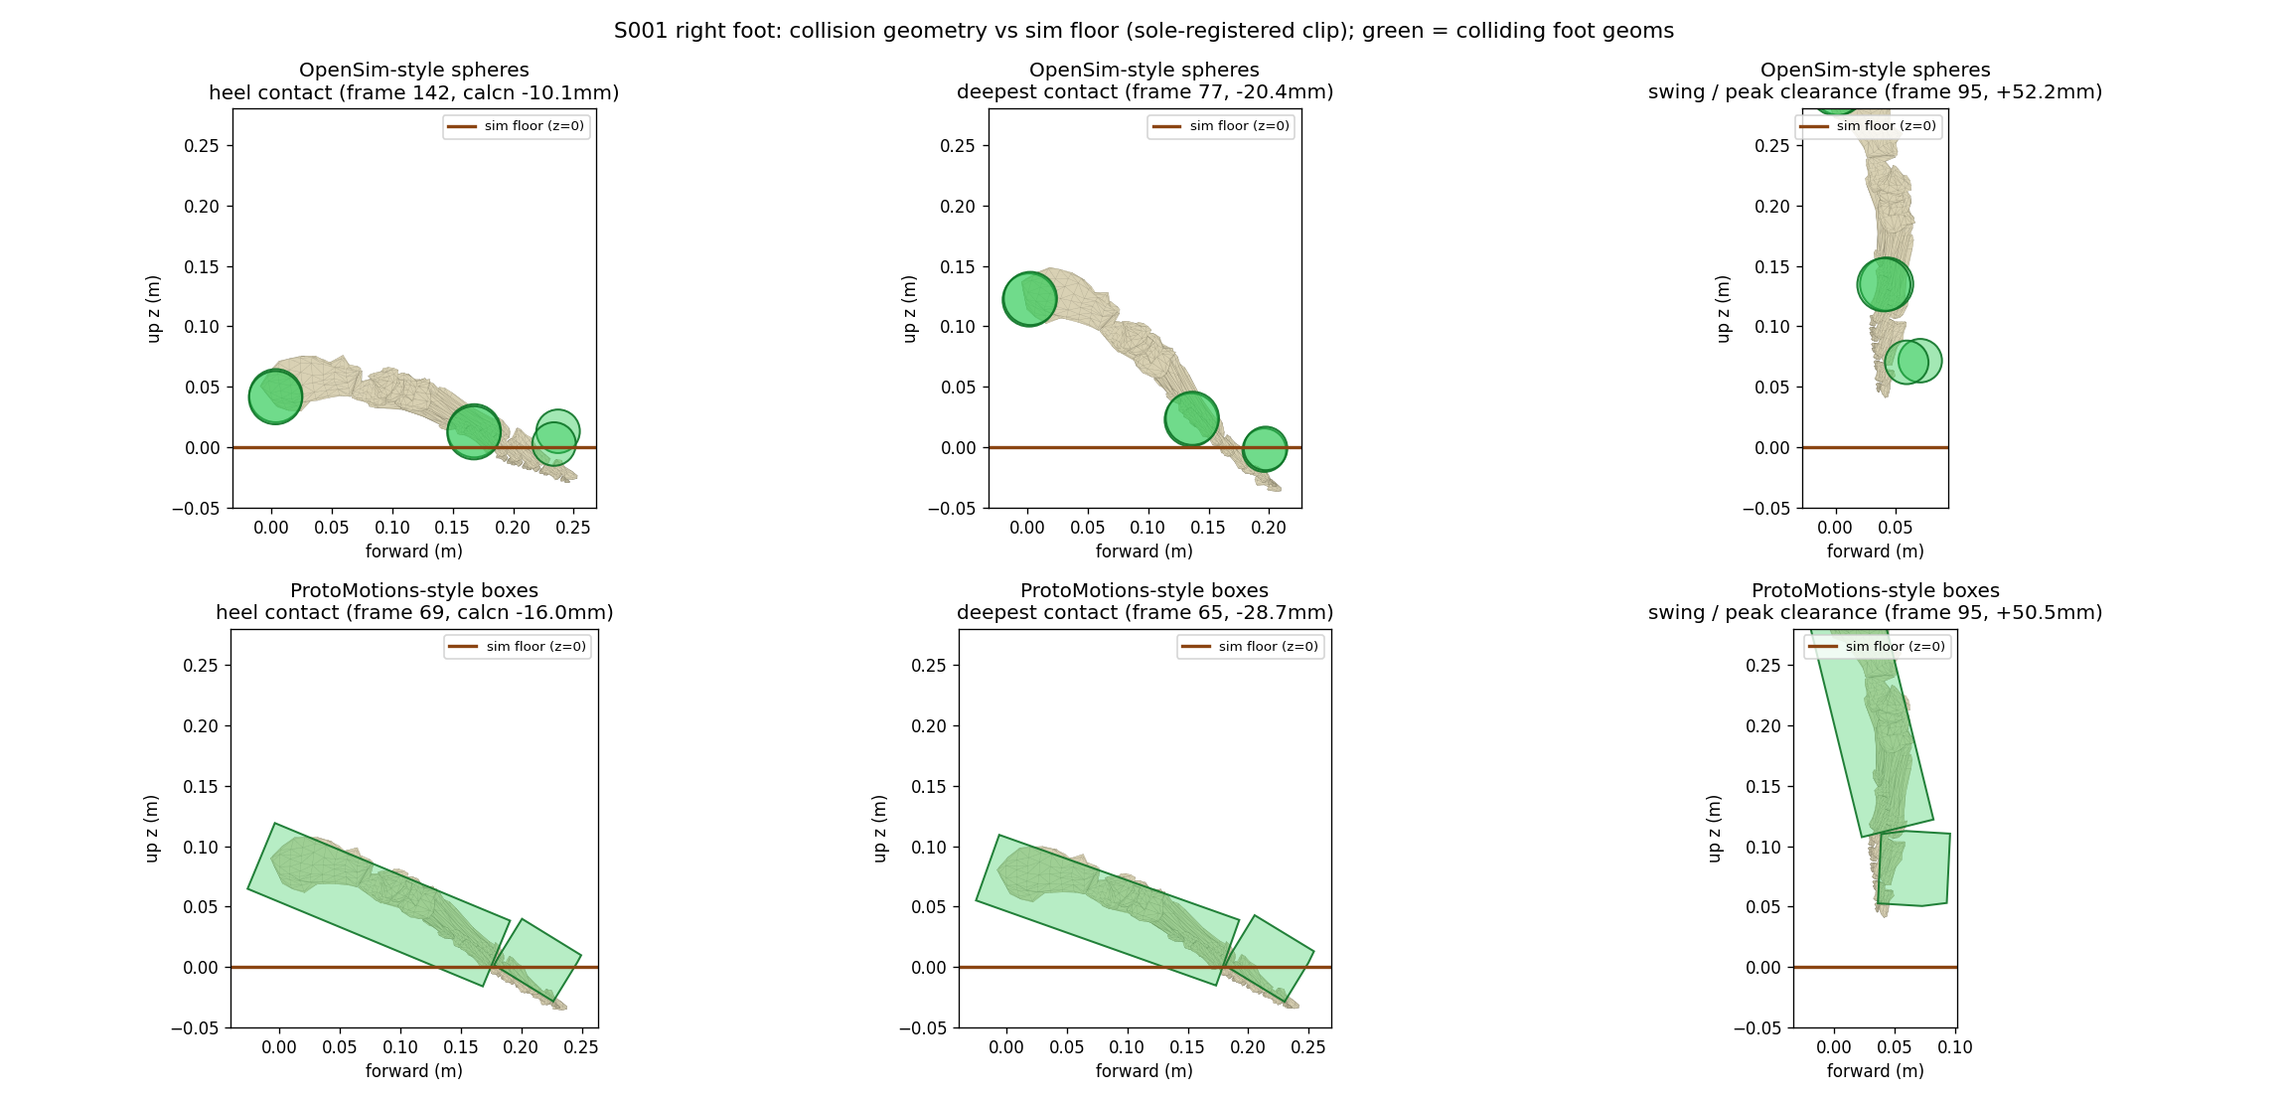
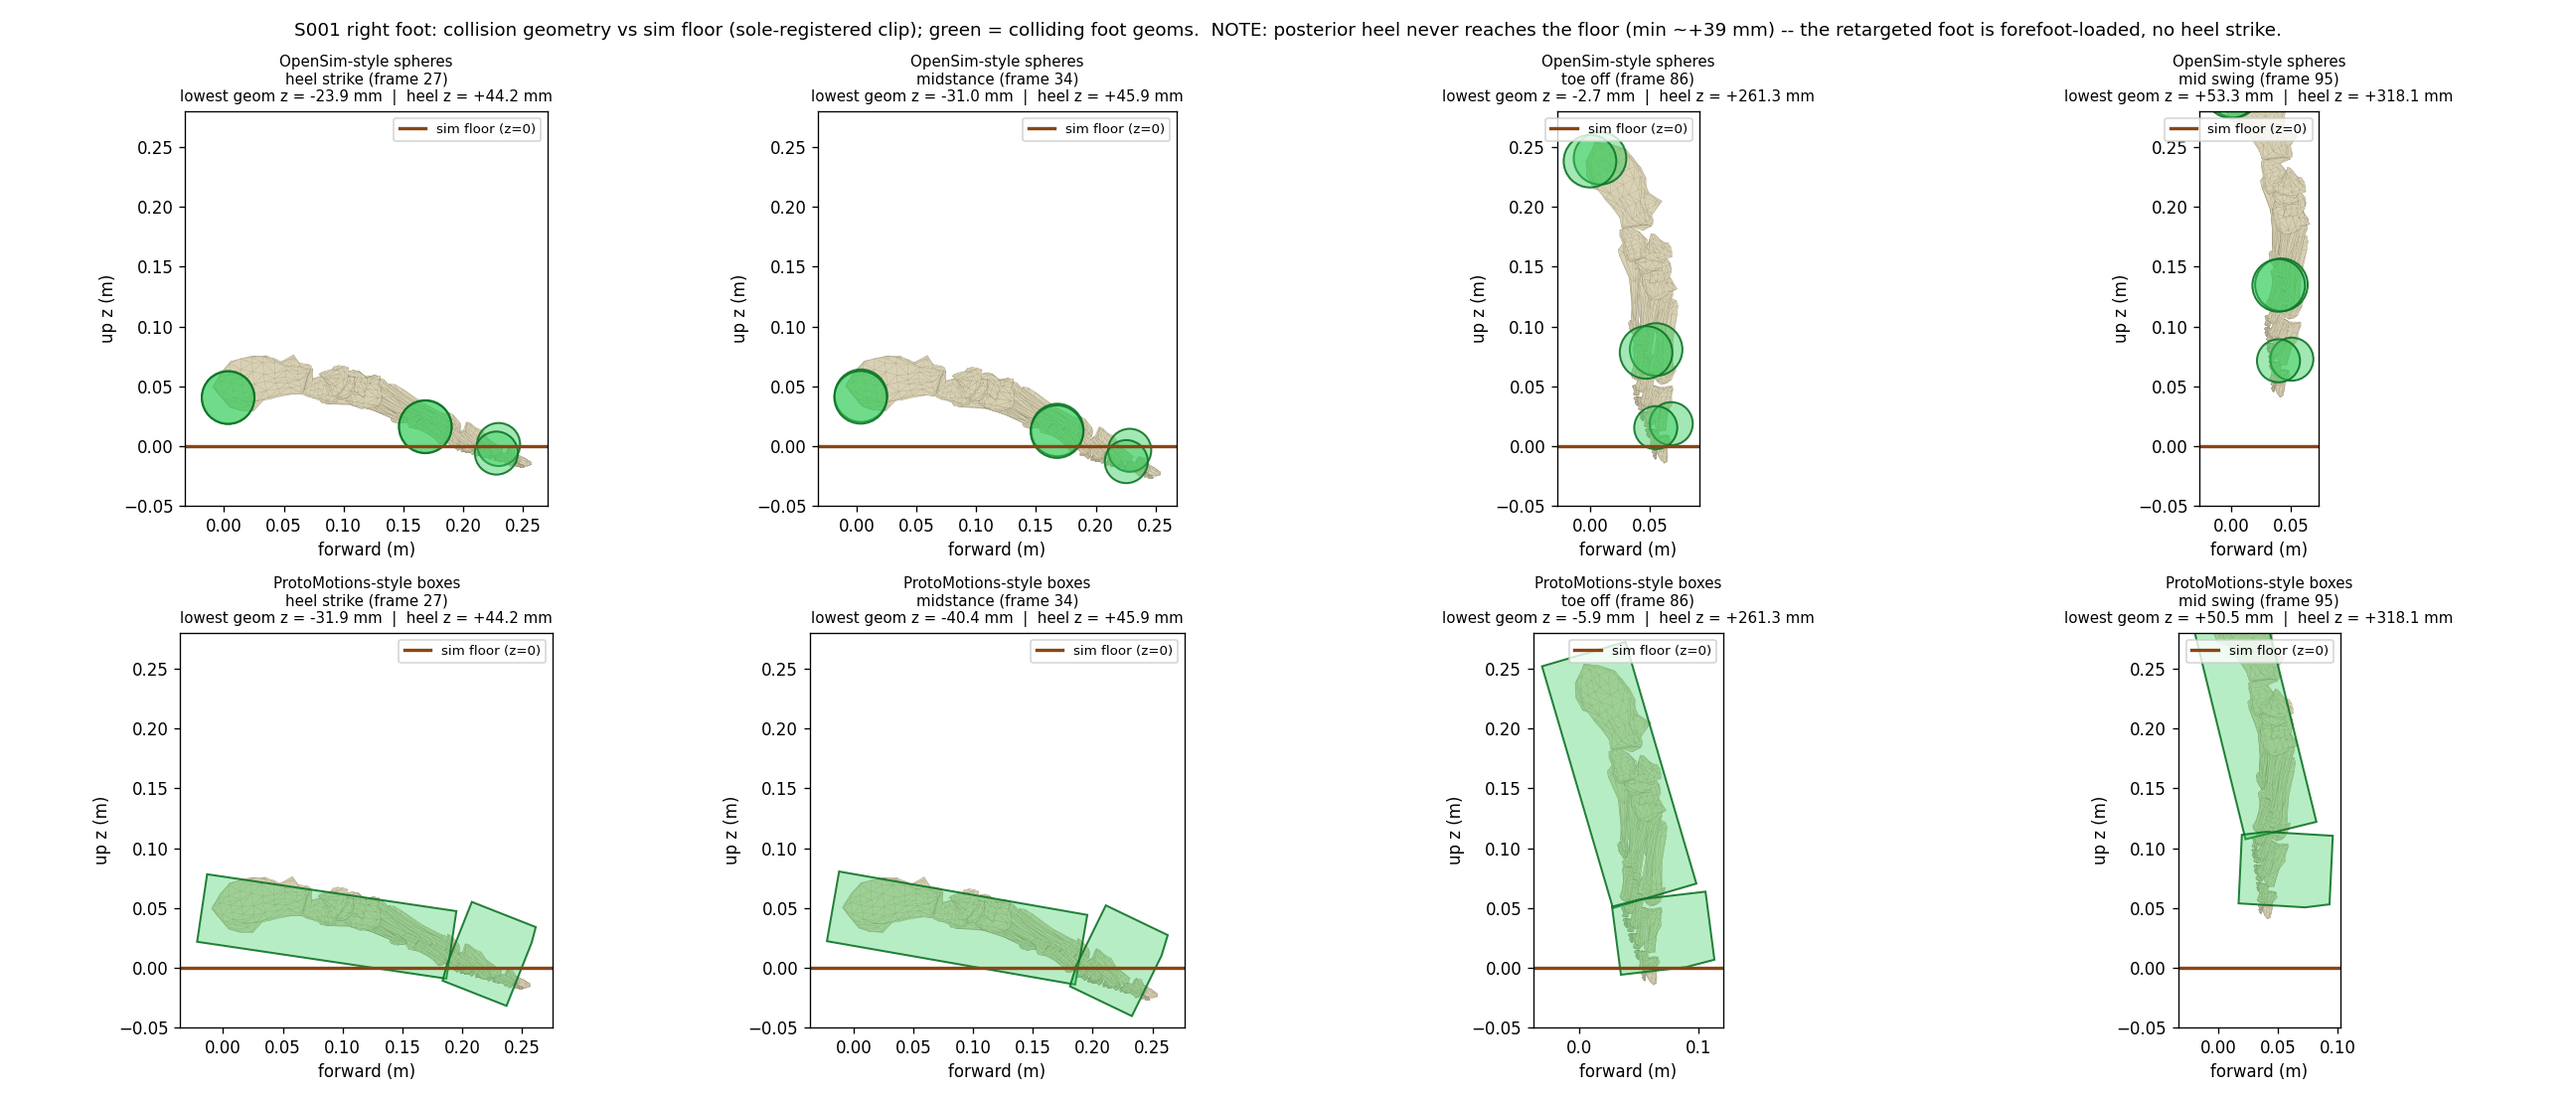
Render foot collision at four gait events

diff --git a/projects/biomech/tools/render_foot_collision.py b/projects/biomech/tools/render_foot_collision.py
@@ -98,12 +98,12 @@ def main() -> int:
     schemes = {k: [g for g in v if g.body in _R_BODIES] for k, v in schemes.items()}
 
     from biomech.contact.elastic_foundation import _quat_rotate_np
+    from biomech.export.foot_collision import _sole_points, _toes_from_calcn
 
     def lowest_collision_z(geoms, fr, bodies=None):
         """World-z of the deepest point of any collision geom at frame ``fr``.
 
-        If ``bodies`` is given, only geoms on those bodies are considered (e.g. just the
-        calcaneus to find heel contact).
+        If ``bodies`` is given, only geoms on those bodies are considered.
         """
         zmin = np.inf
         for g in geoms:
@@ -126,26 +126,64 @@ def main() -> int:
 
     nframes = traj["calcn_r"][0].shape[0]
 
-    nrows, ncols = len(schemes), 3
-    fig, axes = plt.subplots(nrows, ncols, figsize=(6.4 * ncols, 4.6 * nrows),
+    # --- scheme-independent gait-event detection from the plantar sole kinematics ---
+    # Split the subject sole at the MTP into rear (calcn frame) and toe (toes frame), and
+    # track, per frame, the world-z of a posterior-heel point, a distal-toe point, and the
+    # whole sole. The events are properties of the *motion*, so both collision schemes are
+    # rendered at the same frames (directly comparable).
+    sole = _sole_points(spec, scales, static, "R")
+    M = _toes_from_calcn(spec, scales, "toes_r")
+    R, t = M[:3, :3], M[:3, 3]
+    fore = sole[:, 0] >= float(t[0])
+    rear = sole[~fore]
+    toe = (sole[fore] - t) @ R
+    heel_pt = rear[int(np.argmin(rear[:, 0]))][None, :]          # posterior-most (calcn)
+    toe_pt = toe[int(np.argmax(toe[:, 0]))][None, :]             # distal-most (toes)
+
+    def _wz(body, pts_body, fr):
+        pos, quat = traj[body][0][fr], traj[body][1][fr]
+        q = np.broadcast_to(quat[None, :], (pts_body.shape[0], 4))
+        return pos[2] + _quat_rotate_np(q, pts_body)[:, 2]
+
+    heel_z = np.array([_wz("calcn_r", heel_pt, f)[0] for f in range(nframes)])
+    toe_z = np.array([_wz("toes_r", toe_pt, f)[0] for f in range(nframes)])
+    sole_z = np.array([min(_wz("calcn_r", rear, f).min(), _wz("toes_r", toe, f).min())
+                       for f in range(nframes)])
+
+    # Primary stance = the contiguous low-sole block around the deepest-contact frame.
+    thresh = float(sole_z.min()) + 0.02
+    i0 = int(np.argmin(sole_z))
+    s = i0
+    while s > 0 and sole_z[s - 1] < thresh:
+        s -= 1
+    e = i0
+    while e < nframes - 1 and sole_z[e + 1] < thresh:
+        e += 1
+    mid = (s + e) // 2
+    # Characteristic postures: heel strike = heel down / toe up (dorsiflexion); toe off =
+    # heel up / toe down (plantarflexion); midstance = both lowest (flat); swing = clearance.
+    hs = s + int(np.argmax((toe_z - heel_z)[s:mid + 1])) if mid > s else s
+    to = mid + int(np.argmax((heel_z - toe_z)[mid:e + 1])) if e > mid else e
+    ms = s + int(np.argmin((heel_z + toe_z)[s:e + 1]))
+    sw = int(np.argmax(sole_z))
+    events = [
+        (f"heel strike (frame {hs})", hs),
+        (f"midstance (frame {ms})", ms),
+        (f"toe off (frame {to})", to),
+        (f"mid swing (frame {sw})", sw),
+    ]
+
+    nrows, ncols = len(schemes), len(events)
+    fig, axes = plt.subplots(nrows, ncols, figsize=(5.4 * ncols, 4.6 * nrows),
                              squeeze=False)
     for r, (sname, geoms) in enumerate(schemes.items()):
         by_body: dict = {}
         for g in geoms:
             by_body.setdefault(g.body, []).append(g)
-        # pick contact/clearance frames from this scheme's own lowest collision z
-        low_z = np.array([lowest_collision_z(geoms, f) for f in range(nframes)])
-        heel_z = np.array([lowest_collision_z(geoms, f, {"calcn_r"})
-                           for f in range(nframes)])
-        heel = int(np.argmin(heel_z))
-        stance = int(np.argmin(low_z))
-        swing = int(np.argmax(low_z))
-        frames = {
-            f"heel contact (frame {heel}, calcn {heel_z[heel]*1e3:+.1f}mm)": heel,
-            f"deepest contact (frame {stance}, {low_z[stance]*1e3:+.1f}mm)": stance,
-            f"swing / peak clearance (frame {swing}, {low_z[swing]*1e3:+.1f}mm)": swing,
-        }
-        for c, (ftitle, fr) in enumerate(frames.items()):
+        for c, (ename, fr) in enumerate(events):
+            gz = lowest_collision_z(geoms, fr)
+            ftitle = (f"{ename}\nlowest geom z = {gz*1e3:+.1f} mm  |  "
+                      f"heel z = {heel_z[fr]*1e3:+.1f} mm")
             ax = axes[r][c]
             # forward axis from the rearfoot for a consistent u origin
             cpos, cquat = traj["calcn_r"][0][fr], traj["calcn_r"][1][fr]
@@ -184,13 +222,15 @@ def main() -> int:
                                                  facecolor=(0.20, 0.80, 0.35, 0.35),
                                                  edgecolor=(0.05, 0.45, 0.15, 0.9), lw=1.2))
             ax.axhline(0.0, color="saddlebrown", lw=2, label="sim floor (z=0)")
-            ax.set_title(f"{sname}\n{ftitle}")
+            ax.set_title(f"{sname}\n{ftitle}", fontsize=9)
             ax.set_xlabel("forward (m)"); ax.set_ylabel("up z (m)")
             ax.set_aspect("equal"); ax.autoscale_view()
             ax.set_ylim(-0.05, 0.28)
             ax.legend(loc="upper right", fontsize=8)
-    fig.suptitle("S001 right foot: collision geometry vs sim floor "
-                 "(sole-registered clip); green = colliding foot geoms", fontsize=13)
+    fig.suptitle("S001 right foot: collision geometry vs sim floor (sole-registered clip); "
+                 "green = colliding foot geoms.  NOTE: posterior heel never reaches the "
+                 "floor (min ~+39 mm) -- the retargeted foot is forefoot-loaded, no heel "
+                 "strike.", fontsize=11)
     fig.tight_layout()
     fig.savefig(str(_OUT), dpi=120)
     print("wrote", _OUT)
